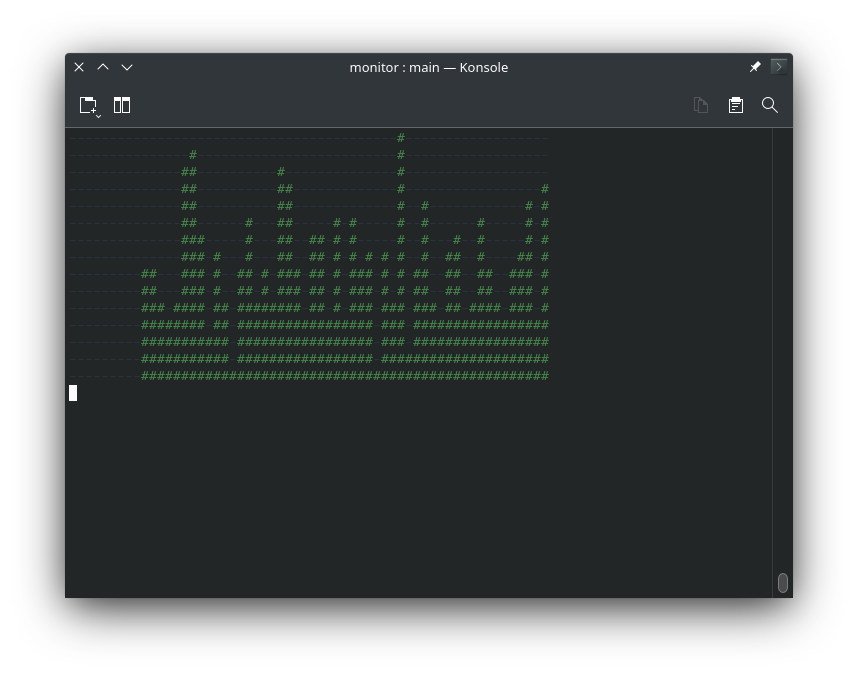
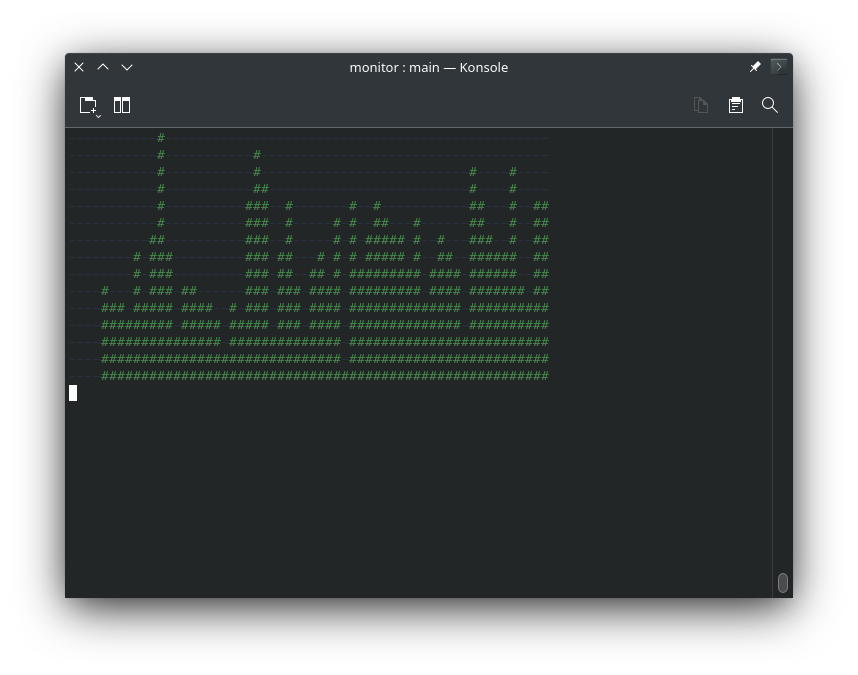
Examples

diff --git a/examples/main.rs b/examples/main.rs
@@ -4,6 +4,11 @@ use std::thread::sleep;
 use monitor;
 
 fn main() {
+    simple_monitor();
+    detailed_monitor();
+}
+
+fn simple_monitor() {
     // Monitor settings
     let width = 60;
     let height = 15;
@@ -26,6 +31,31 @@ fn main() {
         for monitor_lines in monit.status(bitcoin_value.value()) {
             println!("{}", monitor_lines);
         }
-        sleep(Duration::from_millis(500)); // Slow down display
+        sleep(Duration::from_millis(100)); // Slow down display
+    }
+}
+
+fn detailed_monitor() {
+    // Settings
+    let width = 60;
+    let height = 15;
+    let char_1 = Some('+');             // Default is *
+    let char_2 = Some('-');             // Default is -
+    let color_1 = Some((47, 87, 124));  // Default is system/terminal color
+    let color_2 = Some((29, 79, 41));   // Default is system/terminal color
+
+    // Instance
+    let mut monit = monitor::Monitor::new(width, height, char_1, char_2, color_1, color_2);
+
+    // Show
+    for _ in 0..width {
+        print!("{esc}[2J{esc}[1;1H", esc = 27 as char); // Clear terminal
+        let mut bitcoin_value = monitor::ValueEmulator::new(0, height);
+
+        for (n, m) in monit.status(bitcoin_value.value()).iter().enumerate() {
+            println!(" {} {}", m, n + 1);
+        }
+        println!("  {}", "----|".repeat((width/5) as usize));
+        sleep(Duration::from_millis(100));
     }
 }

diff --git a/README.md b/README.md
@@ -41,3 +41,31 @@ fn main() {
 
 ```
 ![Image](data/screenshot_01.png "screenshot")
+
+Drawing the details
+
+```rust
+// Settings
+let width = 60;
+let height = 15;
+let char_1 = Some('+');             // Default is *
+let char_2 = Some('-');             // Default is -
+let color_1 = Some((47, 87, 124));  // Default is system/terminal color
+let color_2 = Some((29, 79, 41));   // Default is system/terminal color
+
+// Instance
+let mut monit = monitor::Monitor::new(width, height, char_1, char_2, color_1, color_2);
+
+// Show
+for _ in 0..width {
+    print!("{esc}[2J{esc}[1;1H", esc = 27 as char); // Clear terminal
+    let mut bitcoin_value = monitor::ValueEmulator::new(0, height);
+
+    for (n, m) in monit.status(bitcoin_value.value()).iter().enumerate() {
+        println!(" {} {}", m, n + 1);
+    }
+    println!("  {}", "----|".repeat((width/5) as usize));
+    sleep(Duration::from_millis(100));
+}
+```
+![Image](data/screenshot_02.png "screenshot")
